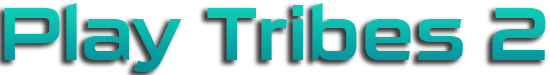
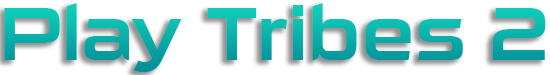
Update

diff --git a/index.html b/index.html
@@ -228,10 +228,9 @@ a:active {
           <!-- Email Header : BEGIN -->
           <table cellspacing="0" cellpadding="0" border="0" align="center" width="100%" style="max-width: 800px;">
             <tr>
-              <td style="padding: 5px 0px 8px 5px; text-align: left; font-family: sans-serif; font-size: 35px; mso-height-rule: exactly; line-height: 35px; color: #ffffff;"><img src="images/play.png" width="250" alt="" border="0"  style="padding: 0px 0px 0px 0px; width: 100%; min-width: 150px; max-width: 250px; height: auto;" align="center"></td>
+              <td style="padding: 5px 0px 8px 5px; text-align: left; font-family: sans-serif; font-size: 35px; mso-height-rule: exactly; line-height: 35px; color: #ffffff;"><img src="images/play.png" width="250" alt="" border="0"  style="padding: 0px 0px 0px 0px; width: 100%; max-width: 250px; height: auto;" align="center"></td>
               <td class="full-width-image" align="center"><img src="images/logo.png" width="322" alt="" border="0"  style="padding: 0px 5px 0px 0px; width: 100%; max-width: 45px; height: auto;" align="center"></td>
-              <td style="padding: 5px 5px 5px 0px; text-align: right; font-family: sans-serif; font-size: 16px; line-height: 20px; color: #ffffff;">Team Combat<br>
-on an Epic Scale!</td>
+              <td style="padding: 5px 5px 5px 0px; text-align: right; font-family: sans-serif; font-size: 16px; line-height: 20px; color: #ffffff;"></td>
             </tr>
           </table>
           <!-- Email Header : END --> 
